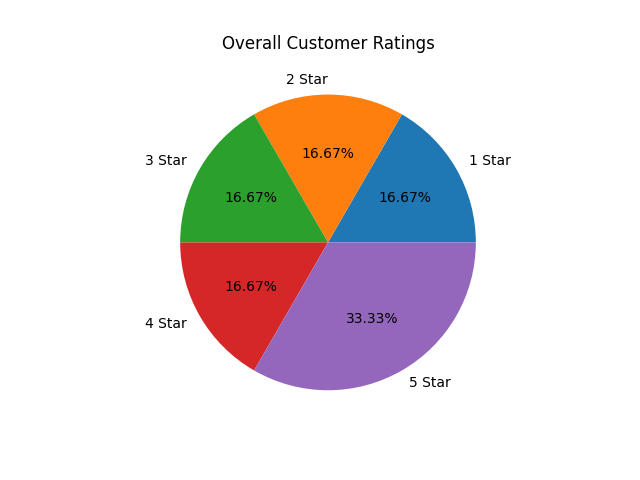
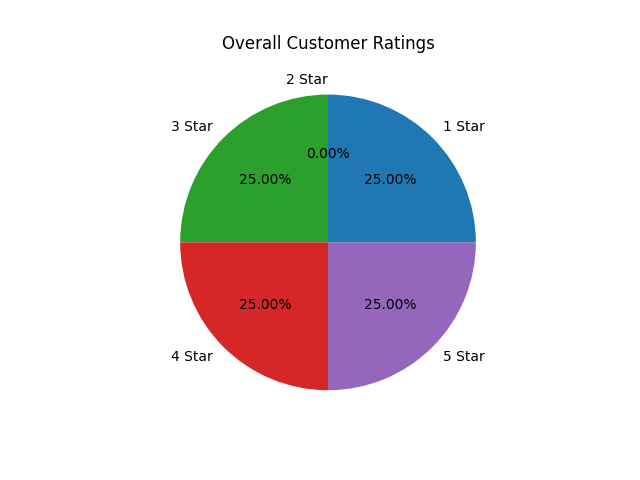
prof'l search done✅

diff --git a/templates/_tables.html b/templates/_tables.html
@@ -110,6 +110,7 @@
       <th>Customer ID</th>
       <th>Professional ID</th>
       <th>Service</th>
+      <th>Booking date</th>
       <th>Status</th>
       <th>Ratings</th>
       <th>Remarks</th>
@@ -127,6 +128,7 @@
         <a href="/admin/professional-details/{{request.professional_id}}">{{request.professional_id}} ↪</a>
       </td>
       <td>{{request.service.name}}</td>
+      <td>{{request.booking_date}}</td>
       <td>{{request.status}}</td>
       <td>{{request.ratings}}</td>
       <td>{{request.remarks}}</td>

diff --git a/templates/professional_search.html b/templates/professional_search.html
@@ -46,9 +46,10 @@
       <label>
         By Service:
         <select name="service_id">
-          <option value="1">Tap repair</option>
-          <option value="2">Heater setup</option>
-          <option value="3">Pipe leakage</option>
+          <option value="" selected>Select a service</option>
+          {% for service in services %}
+          <option value="{{service.id}}">{{service.name}}</option>
+          {% endfor %}
         </select>
       </label>
     </div>

diff --git a/templates/professional_search_results.html b/templates/professional_search_results.html
@@ -1,0 +1,19 @@
+<!-- -->
+{% extends "_base.html" %}
+
+<!-- -->
+{% import "_tables.html" as tables %}
+
+<!-- -->
+{% block title %} Search Results {% endblock title %}
+
+<!-- -->
+{% block content %}
+<h1>Search Results</h1>
+
+{% if search_type == 'accepted-requests' %}
+<section>
+  <h2>Service Requests</h2>
+  {{ tables.service_requests_table(service_requests, can_accept=True) }}
+</section>
+{% endif %} {% endblock content %}

diff --git a/models.py b/models.py
@@ -7,6 +7,9 @@ from datetime import datetime
 db = SQLAlchemy()
 
 
+# ======== User ========
+
+
 class User(db.Model, UserMixin):
   __tablename__ = 'users'
   id = Column(Integer, primary_key=True, autoincrement=True)
@@ -23,12 +26,38 @@ class User(db.Model, UserMixin):
   admin = relationship('Admin', back_populates='user', uselist=False)
 
 
+# ======== City ========
+
+
+class City(db.Model):
+  __tablename__ = 'cities'
+  id = Column(Integer, primary_key=True, autoincrement=True)
+  name = Column(String)
+  users = relationship('User', back_populates='city')
+
+
+# ======== Admin ========
+
+
+class Admin(db.Model):
+  __tablename__ = 'admins'
+  id = Column(Integer, primary_key=True, autoincrement=True)
+  user_id = Column(Integer, ForeignKey('users.id'))
+  user = relationship('User', back_populates='admin')
+
+
+# ======== Customer ========
+
+
 class Customer(db.Model):
   __tablename__ = 'customers'
   id = Column(Integer, primary_key=True, autoincrement=True)
   user_id = Column(Integer, ForeignKey('users.id'))
   user = relationship('User', back_populates='customer', cascade='all, delete')
   service_requests = relationship('ServiceRequest', back_populates='customer')
+
+
+# ======== Professional ========
 
 
 class Professional(db.Model):
@@ -43,11 +72,7 @@ class Professional(db.Model):
   service_requests = relationship('ServiceRequest', back_populates='professional')
 
 
-class Admin(db.Model):
-  __tablename__ = 'admins'
-  id = Column(Integer, primary_key=True, autoincrement=True)
-  user_id = Column(Integer, ForeignKey('users.id'))
-  user = relationship('User', back_populates='admin')
+# ======== Service Category ========
 
 
 class ServiceCategory(db.Model):
@@ -58,6 +83,9 @@ class ServiceCategory(db.Model):
   services = relationship('Service', back_populates='service_category')
 
 
+# ======== Service ========
+
+
 class Service(db.Model):
   __tablename__ = 'services'
   id = Column(Integer, primary_key=True, autoincrement=True)
@@ -66,6 +94,9 @@ class Service(db.Model):
   service_category_id = Column(Integer, ForeignKey('service_categories.id'))
   service_category = relationship('ServiceCategory', back_populates='services')
   service_requests = relationship('ServiceRequest', back_populates='service')
+
+
+# ======== Service Request ========
 
 
 class ServiceRequest(db.Model):
@@ -83,10 +114,3 @@ class ServiceRequest(db.Model):
   customer = relationship('Customer', back_populates='service_requests')
   service = relationship('Service', back_populates='service_requests')
   professional = relationship('Professional', back_populates='service_requests')
-
-
-class City(db.Model):
-  __tablename__ = 'cities'
-  id = Column(Integer, primary_key=True, autoincrement=True)
-  name = Column(String)
-  users = relationship('User', back_populates='city')

diff --git a/populate_db.py b/populate_db.py
@@ -113,9 +113,16 @@ def populate():
   # gauri
   db.session.add(ServiceRequest(
       customer_id=1,
-      service_id=1,
       professional_id=1,
-      booking_date=datetime.now(),
+      service_id=1,
+      booking_date=datetime(2024, 12, 4),
+      status='accepted'
+  ))
+  db.session.add(ServiceRequest(
+      customer_id=2,
+      professional_id=1,
+      service_id=1,
+      booking_date=datetime(2024, 12, 4),
       status='accepted'
   ))
   db.session.add(ServiceRequest(
@@ -123,7 +130,8 @@ def populate():
       service_id=2,
       professional_id=2,
       booking_date=datetime.now(),
-      status='done'
+      status='done',
+      ratings=4
   ))
   db.session.add(ServiceRequest(
       customer_id=1,
@@ -136,8 +144,16 @@ def populate():
       customer_id=2,
       service_id=3,
       professional_id=1,
-      booking_date=datetime.now(),
+      booking_date=datetime(2024, 12, 20),
       status='accepted'
+  ))
+  db.session.add(ServiceRequest(
+      customer_id=2,
+      service_id=1,
+      professional_id=1,
+      booking_date=datetime(2024, 12, 20),
+      status='done',
+      ratings=3
   ))
   db.session.add(ServiceRequest(
       customer_id=2,
@@ -155,7 +171,23 @@ def populate():
   ))
   db.session.add(ServiceRequest(
       customer_id=3,
-      service_id=1,
+      service_id=5,
+      professional_id=3,
+      booking_date=datetime.now(),
+      status='done',
+      ratings=5
+  ))
+  db.session.add(ServiceRequest(
+      customer_id=3,
+      service_id=6,
+      professional_id=3,
+      booking_date=datetime.now(),
+      status='done',
+      ratings=1
+  ))
+  db.session.add(ServiceRequest(
+      customer_id=3,
+      service_id=5,
       booking_date=datetime.now(),
   ))
   db.session.commit()

diff --git a/routes/professional_bp.py b/routes/professional_bp.py
@@ -45,7 +45,8 @@ def professional_home():
 
 @professional_bp.route('/professional/search')
 def professional_search():
-  return render_template('professional_search.html')
+  services = Service.query.filter_by(service_category=current_user.professional.service_category)
+  return render_template('professional_search.html', services=services)
 
 
 @professional_bp.route('/professional/search-results/<search_type>')
@@ -64,19 +65,20 @@ def professional_search_results(search_type):
     query = ServiceRequest.query
 
     # apply filters as required
-    query = query.filter(ServiceRequest.status == 'accepted')
+    query = query.filter(ServiceRequest.status == 'accepted',
+                         ServiceRequest.professional_id == current_user.professional.id)
     if booking_date:
       # convert `booking_date str` to `datetime obj`
-      y, m, d = booking_date.split('-')
+      y, m, d = map(int, booking_date.split('-'))
       query = query.filter(ServiceRequest.booking_date == datetime(y, m, d))
     if pin_code:
-      query = ...
+      query = query.join(Customer).join(User).filter(User.pin_code == pin_code)
     if service_id:
-      query = ...
+      query = query.filter(ServiceRequest.service_id == service_id)
 
-    # fetch all rows
-    query = query.all()
-    return render_template('professional_search_results.html')
+      # fetch all rows
+    service_requests = query.all()
+    return render_template('professional_search_results.html', search_type=search_type, service_requests=service_requests)
 
 # ====== summary ======
 

diff --git a/routes/auth_bp.py b/routes/auth_bp.py
@@ -6,6 +6,9 @@ from models import *
 auth_bp = Blueprint('auth', __name__)
 
 
+# ======== login ========
+
+
 @auth_bp.route('/login', methods=['GET', 'POST'])
 def login():
   if current_user.is_authenticated:
@@ -26,10 +29,16 @@ def login():
     return render_template('login.html', error=True)
 
 
+# ======== logout ========
+
+
 @auth_bp.route('/logout')
 def logout():
   logout_user()
   return redirect('/login')
+
+
+# ======== register ========
 
 
 @auth_bp.route('/register', methods=['GET', 'POST'])
@@ -53,6 +62,9 @@ def register():
     db.session.commit()
     login_user(new_customer.user)
     return redirect('/')
+
+
+# ======== register professional ========
 
 
 @auth_bp.route('/register/professional', methods=['GET', 'POST'])
